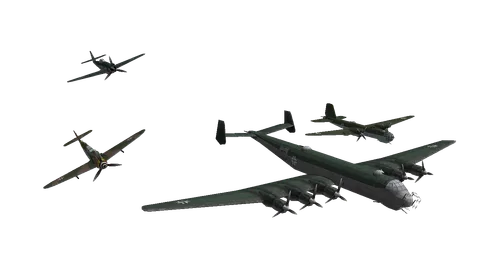
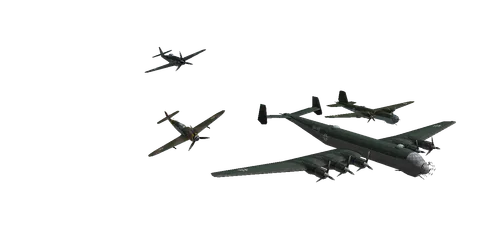
Start page pictures 2:1; Custom up to 100 missiles
- The mode pictures are rendered and shown at 2:1 (480x240), so the
  cards are lower: picture on top, name and one-liner below.
- Custom missiles: steps go on 40, 50, 60, 80, 100; the round accepts
  up to 100 (was 99).

Changed region(s): [[0.0938, 0.3792, 0.9688, 0.8167], [0.125, 0.2042, 0.4375, 0.3208]]

diff --git a/web/index.html b/web/index.html
@@ -97,7 +97,7 @@
         color: var(--ink); background: rgba(255, 255, 255, 0.03); border: 1px solid var(--hud-dim);
         font: inherit;
       }
-      .mode img { width: 100%; aspect-ratio: 16 / 9; object-fit: contain; display: block; }
+      .mode img { width: 100%; aspect-ratio: 2 / 1; object-fit: contain; display: block; }
       /* Name on its own line, the one-liner below. */
       .mode div { display: flex; flex-direction: column; gap: 4px; }
       .mode strong {
@@ -157,15 +157,15 @@
           <h2>Mode</h2>
           <div class="modes" id="modes" role="group" aria-label="Mode">
             <button class="mode" type="button" data-mode="hunt">
-              <img src="img/mode-hunt.webp" alt="A fighter" width="480" height="270" />
+              <img src="img/mode-hunt.webp" alt="A fighter" width="480" height="240" />
               <div><strong>HUNT</strong><span>Shoot down every fighter.</span></div>
             </button>
             <button class="mode" type="button" data-mode="protect">
-              <img src="img/mode-protect.webp" alt="Two bombers" width="480" height="270" />
+              <img src="img/mode-protect.webp" alt="Two bombers" width="480" height="240" />
               <div><strong>PROTECT</strong><span>Stop the bomber waves before they wreck the city centre.</span></div>
             </button>
             <button class="mode" type="button" data-mode="battle">
-              <img src="img/mode-battle.webp" alt="Bombers with fighter escort" width="480" height="270" />
+              <img src="img/mode-battle.webp" alt="Bombers with fighter escort" width="480" height="240" />
               <div><strong>BATTLE</strong><span>Bombers with a fighter escort: protect the city and survive.</span></div>
             </button>
           </div>

diff --git a/src/menu/selection.rs b/src/menu/selection.rs
@@ -170,7 +170,8 @@ impl CustomField {
         match self {
             // Includes every level's count in every mode (e.g. 8, 16, 24).
             CustomField::Missiles => &[
-                0., 2., 4., 6., 8., 10., 12., 14., 16., 20., 24., 28., 32., 36., 40.,
+                0., 2., 4., 6., 8., 10., 12., 14., 16., 20., 24., 28., 32., 36., 40., 50., 60.,
+                80., 100.,
             ],
             CustomField::Enemies => &[1., 2., 4., 6., 8., 10., 12., 16., 20., 24.],
             CustomField::FlightSize => &[1., 2., 3., 4., 5., 6.],
@@ -889,7 +890,7 @@ mod tests {
             let steps = field.steps();
             let (lo, hi) = (steps[0], steps[steps.len() - 1]);
             let (min, max) = match field {
-                CustomField::Missiles => (0.0, 40.0),
+                CustomField::Missiles => (0.0, 100.0),
                 CustomField::Enemies => (1.0, 24.0),
                 CustomField::FlightSize => (1.0, 6.0),
                 CustomField::EnemySpeed => (0.5, 1.5),

diff --git a/src/game_state/settings.rs b/src/game_state/settings.rs
@@ -239,7 +239,7 @@ impl DifficultyParams {
         // designed"; `clamp` alone would keep NaN.
         let factor = |f: f32, lo: f32, hi: f32| if f.is_finite() { f.clamp(lo, hi) } else { 1.0 };
         Self {
-            missiles: self.missiles.min(99),
+            missiles: self.missiles.min(100),
             gun_ammo: self.gun_ammo.clamp(50, 9_999),
             enemies: self.enemies.clamp(1, 48),
             flight_size: self.flight_size.clamp(1, 8),
